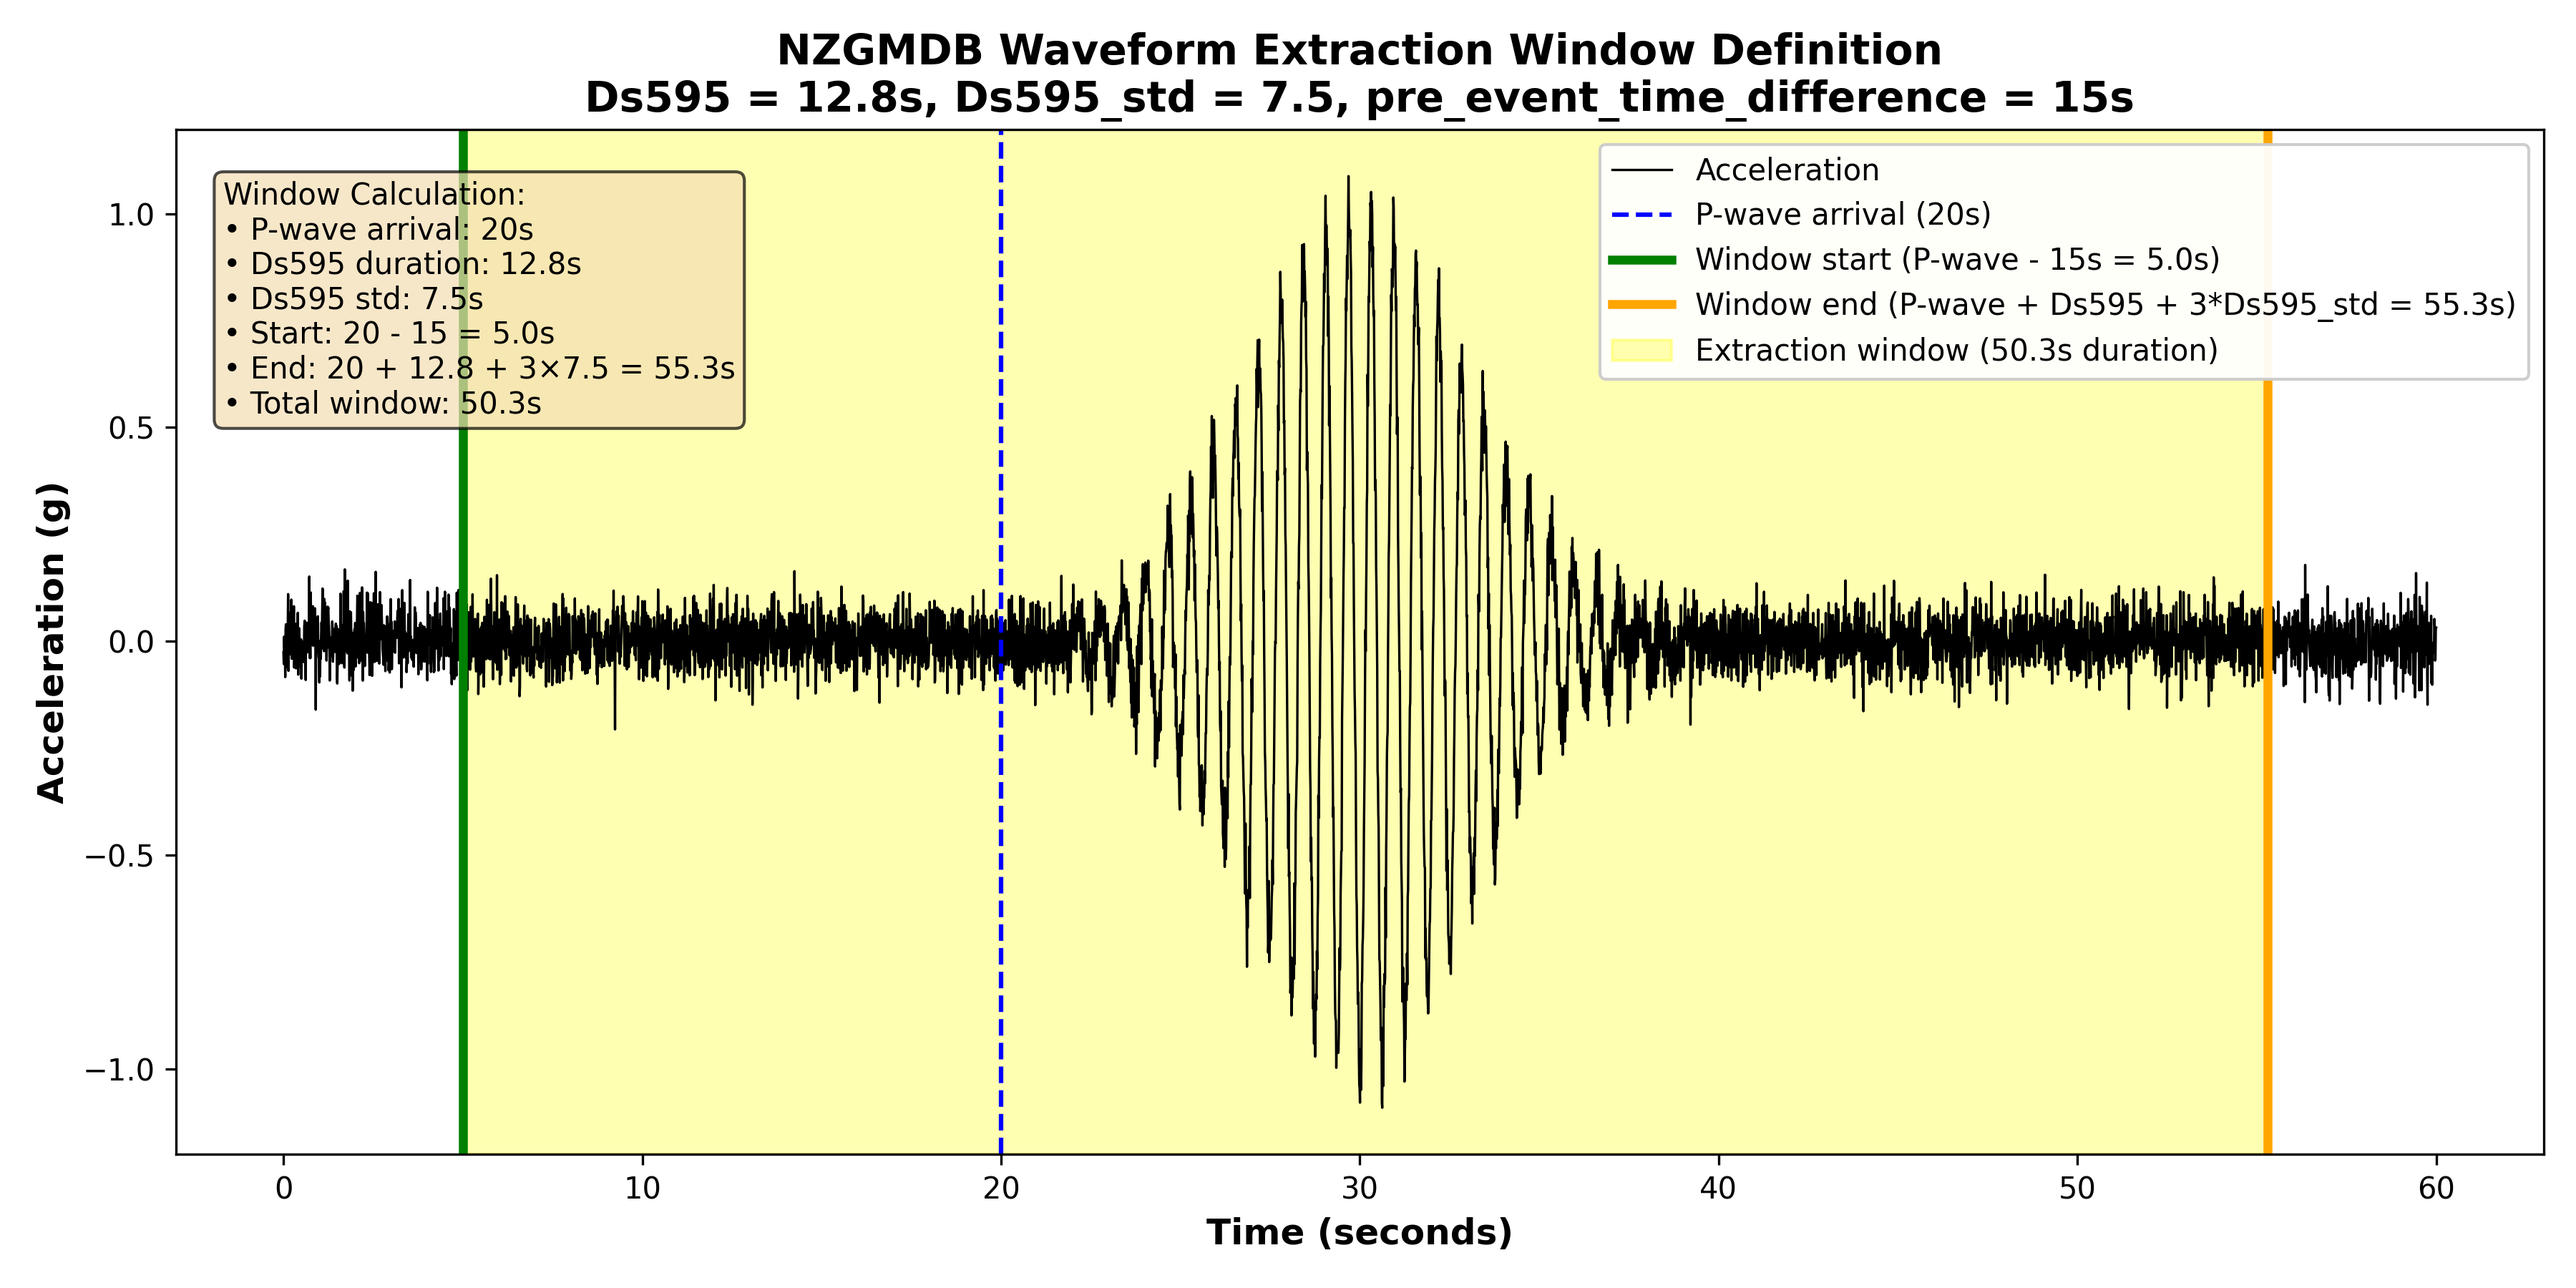
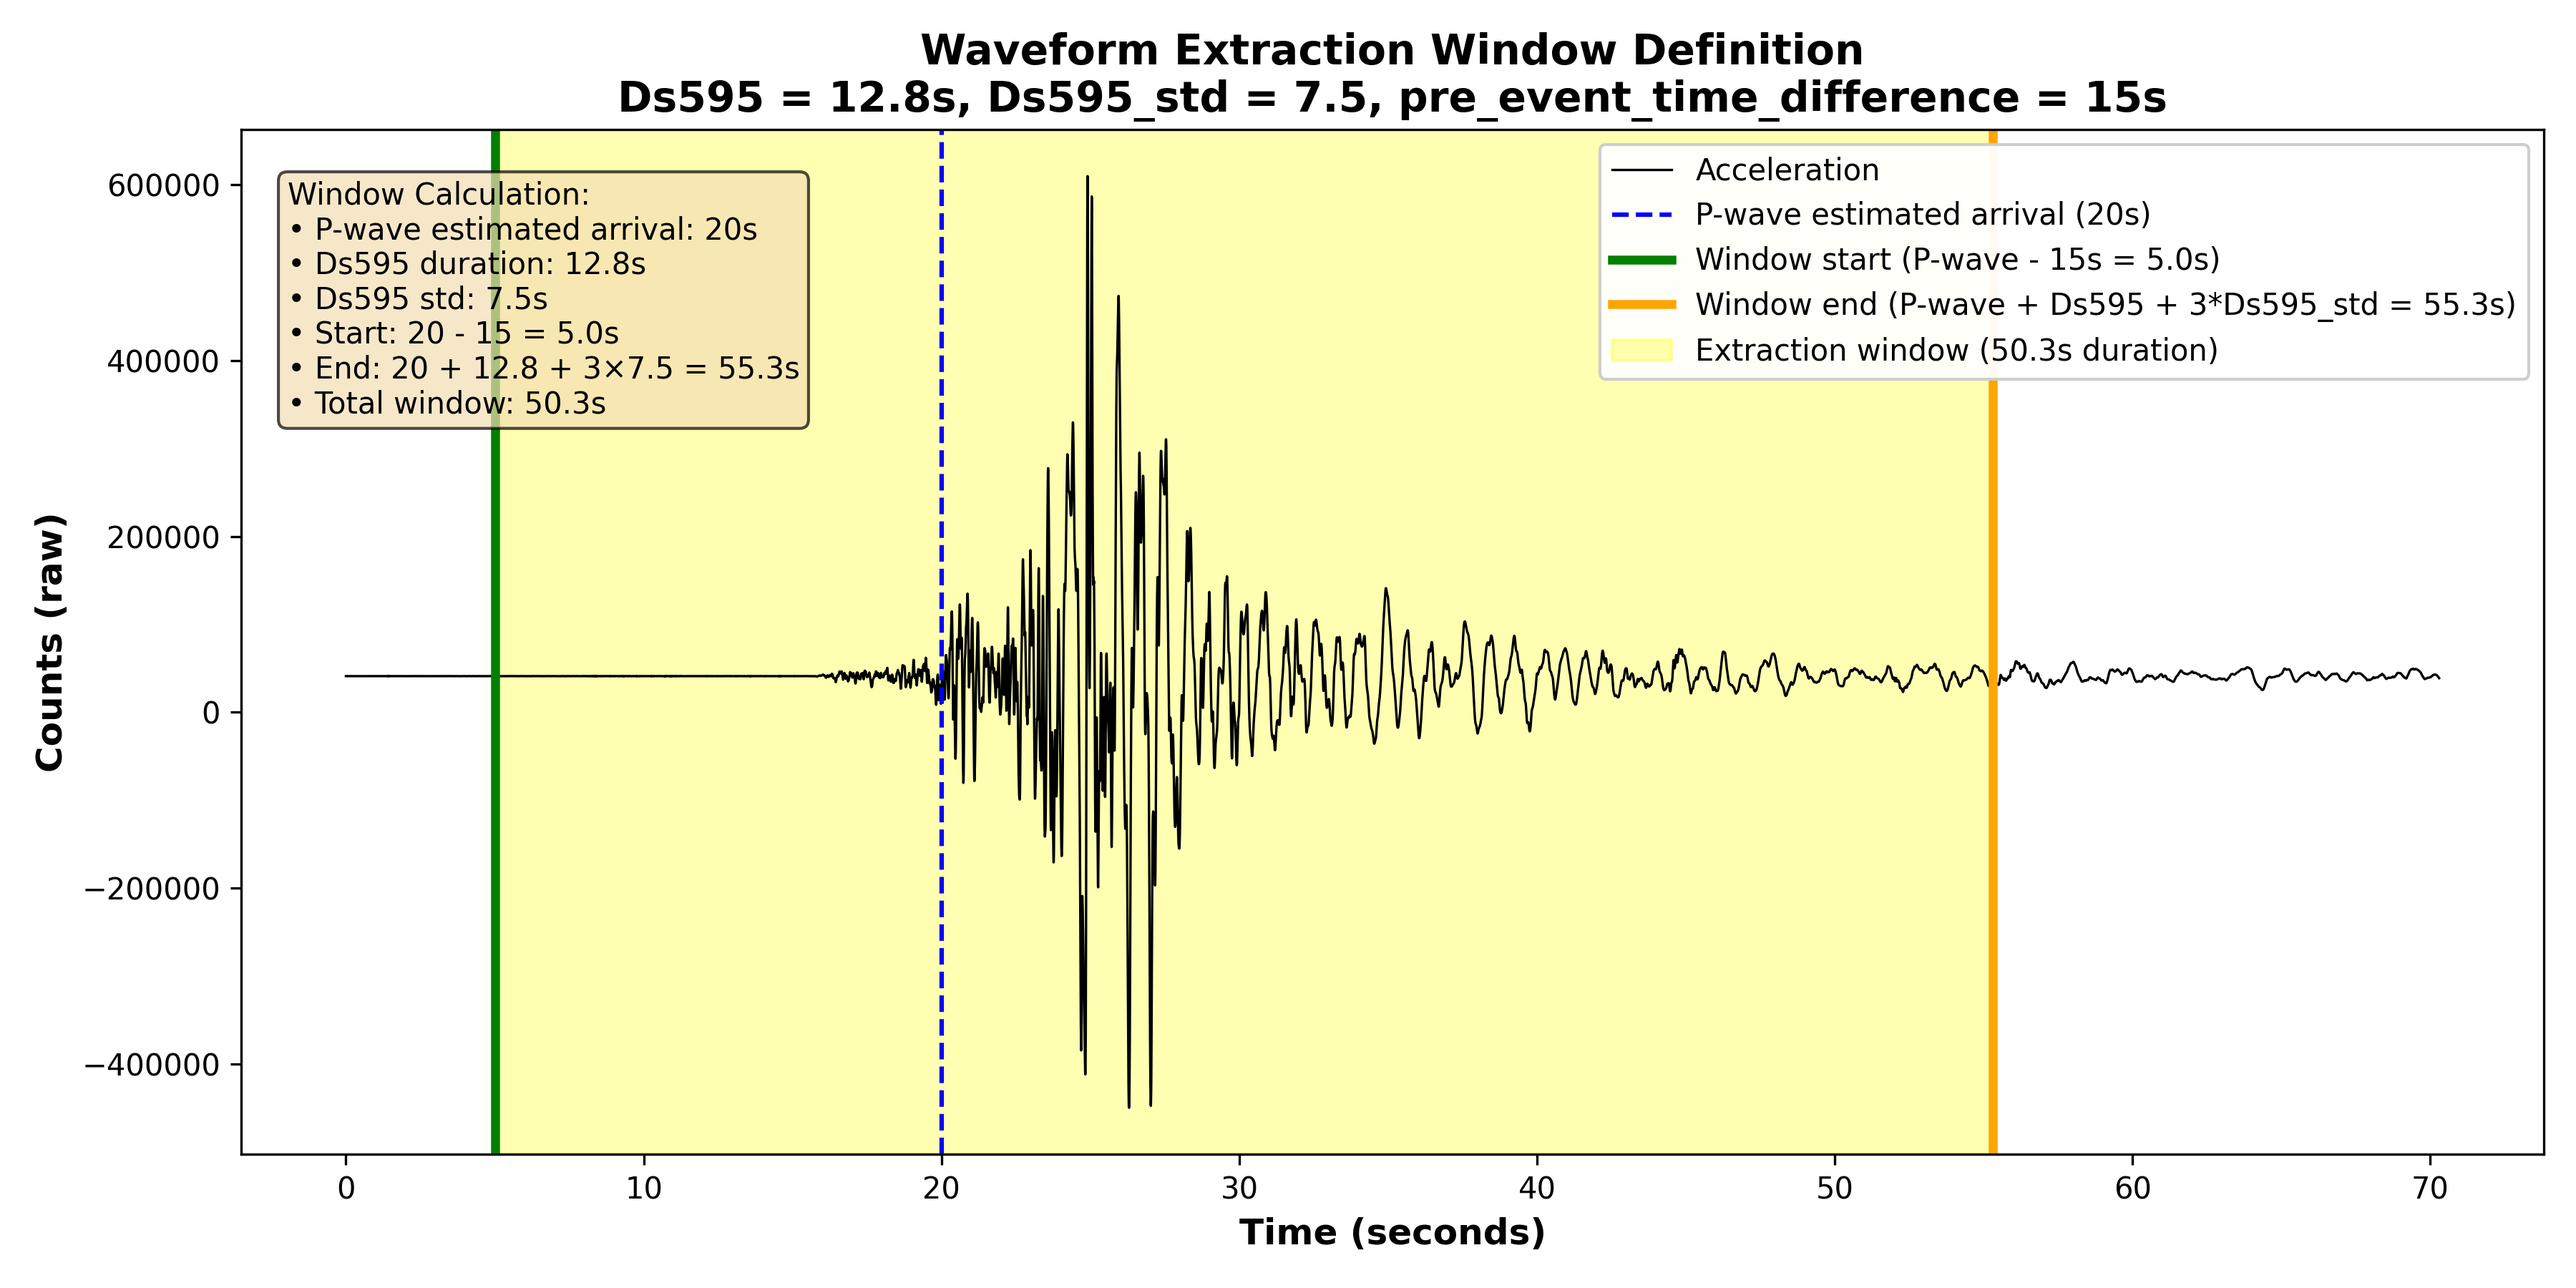
image improvement

diff --git a/nzgmdb/data_retrieval/sites.py b/nzgmdb/data_retrieval/sites.py
@@ -13,8 +13,9 @@ from obspy.clients.fdsn import Client as FDSN_Client
 from nzgmdb.data_retrieval import tect_domain
 from nzgmdb.management.data_registry import NZGMDB_DATA
 from qcore import point_in_polygon
-from velocity_modelling import constants as vm_const
-from velocity_modelling.tools import basin_wiki
+
+# from velocity_modelling import constants as vm_const
+# from velocity_modelling.tools import basin_wiki
 
 
 def create_site_table_response() -> pd.DataFrame:

diff --git a/wiki/Waveform-Extraction.md b/wiki/Waveform-Extraction.md
@@ -50,13 +50,13 @@ The waveform download window is determined by a event-site pairing using seismic
 The travel times are already pre-calculated in the station extraction table, as well as the duration to determine the end of the window.
 
 #### **Start time of waveform window**
-We take the ptime_est (P-wave arrival time) and subtract `pre_event_time_difference: 15` seconds to ensure we capture pre-event noise. (adjustable in config.yaml)
+We take the ptime_est (P-wave estimated arrival time) and subtract `pre_event_time_difference: 15` seconds to ensure we capture pre-event noise. (adjustable in config.yaml)
 
 #### **End time of the waveform window**
 Both ds_mean and ds_std represent the log of the significant duration (Ds595). To get the actual duration, we take the exponential of these values.
 The end window extends to ptime_est + exp(ds_mean) * exp(ds_std_multiplier * ds_std), where ds_std_multiplier is a config parameter (default 3).
 
-Below is an example with a synthetic waveform to illustrate the window:
+Below is an example with a waveform to illustrate the window:
 ![](images/waveform_extraction_window.png)
 
 ### 🔹 Waveform Data Retrieval
